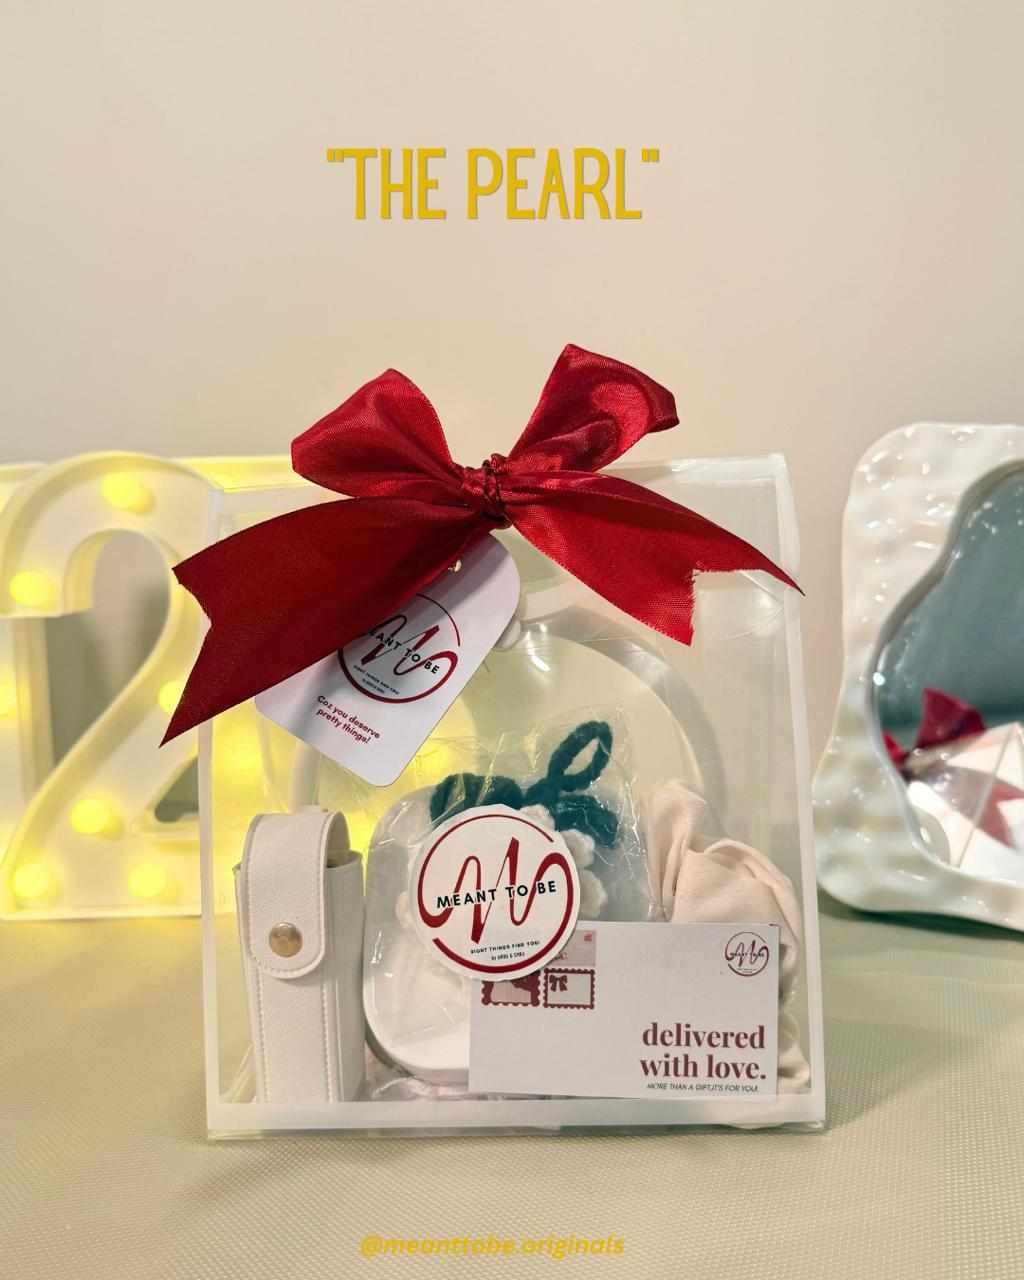
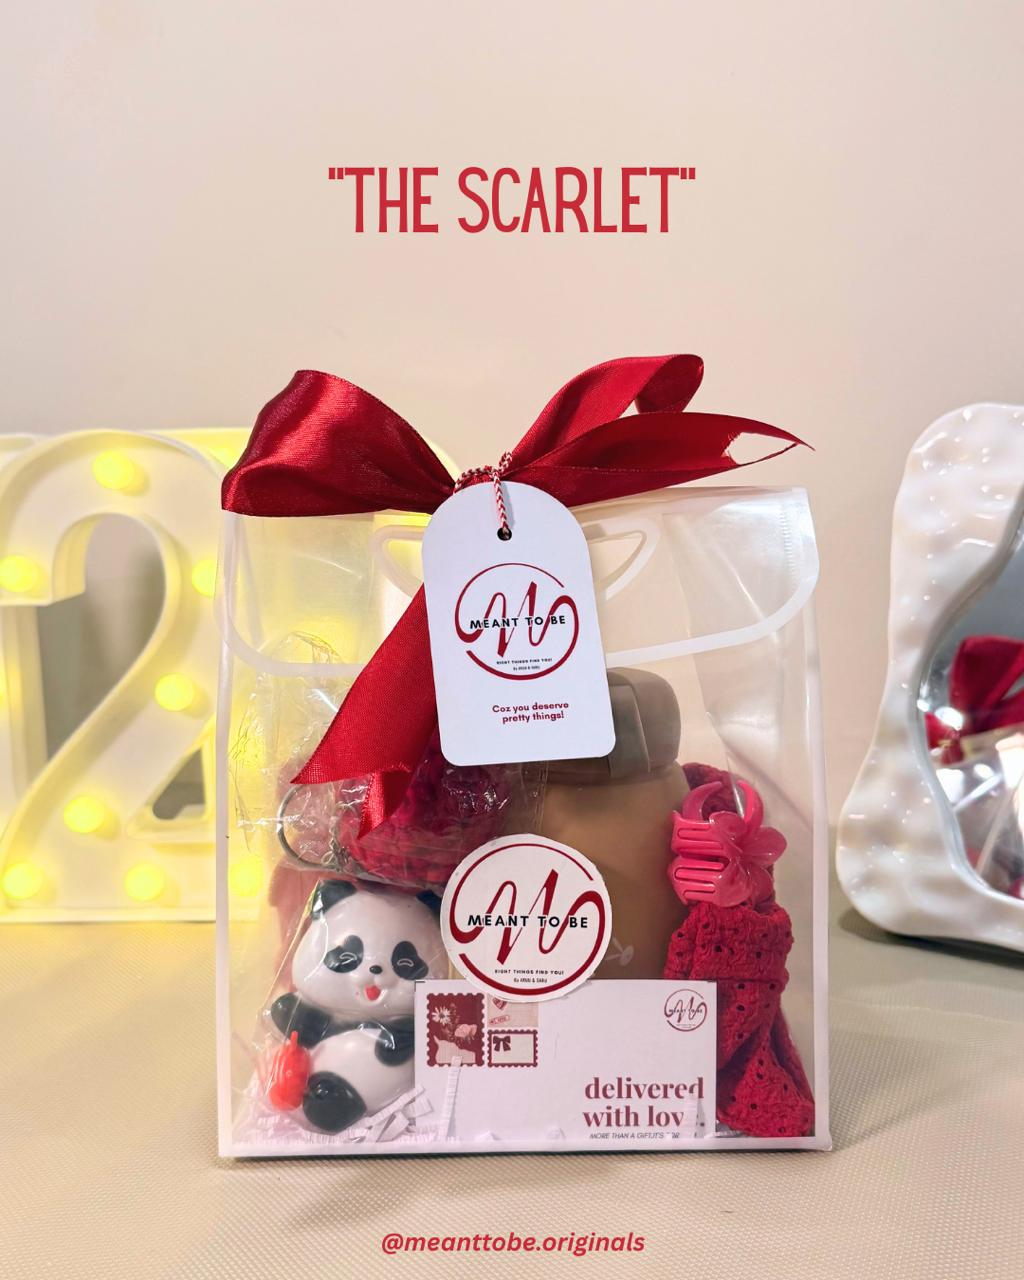
Fix Cashfree back navigation loading state and mobile modal scrolling

diff --git a/src/components/Navbar.tsx b/src/components/Navbar.tsx
@@ -197,7 +197,7 @@ export default function Navbar() {
           align-items: center;
           justify-content: center;
           gap: 2rem;
-          z-index: 998;
+          z-index: 1001;
           opacity: 0;
           transition: opacity 0.35s ease;
           pointer-events: none;
@@ -224,9 +224,10 @@ export default function Navbar() {
         }
 
         .mobile-close {
-          position: absolute;
-          top: 24px;
-          right: 24px;
+          position: fixed;
+          top: 20px;
+          right: 20px;
+          z-index: 1002;
           width: 44px;
           height: 44px;
           border-radius: 50% !important;